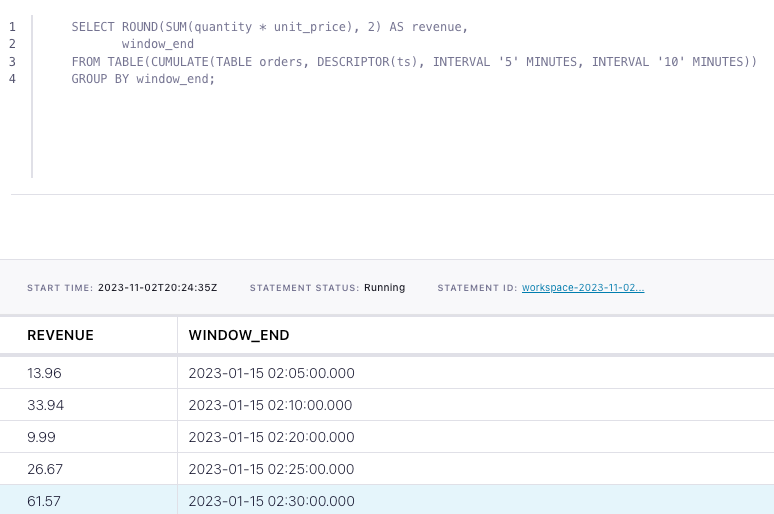
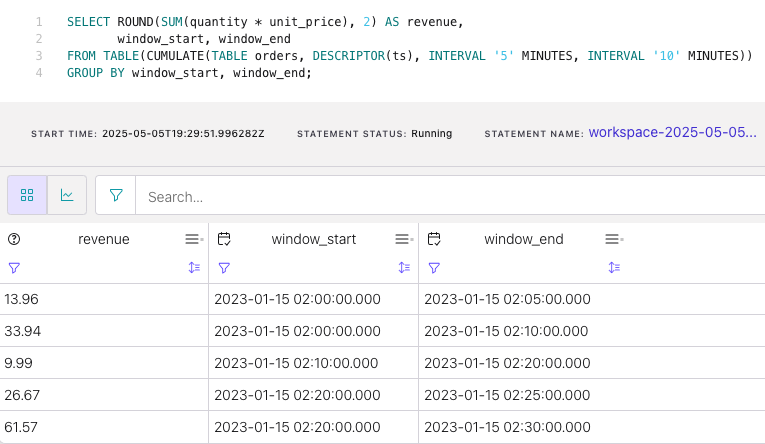
fix: for efficiency, group by window start and end in cumulating windows tutorial (#98)

diff --git a/cumulating-windows/flinksql/README.md b/cumulating-windows/flinksql/README.md
@@ -215,9 +215,9 @@ against Flink and Kafka running in Docker, or with Confluent Cloud.
 
   ```sql
   SELECT ROUND(SUM(quantity * unit_price), 2) AS revenue,
-         window_end
+         window_start, window_end
   FROM TABLE(CUMULATE(TABLE orders, DESCRIPTOR(ts), INTERVAL '5' MINUTES, INTERVAL '10' MINUTES))
-  GROUP BY window_end;
+  GROUP BY window_start, window_end;
   ```
 
   The query output should look like this:
